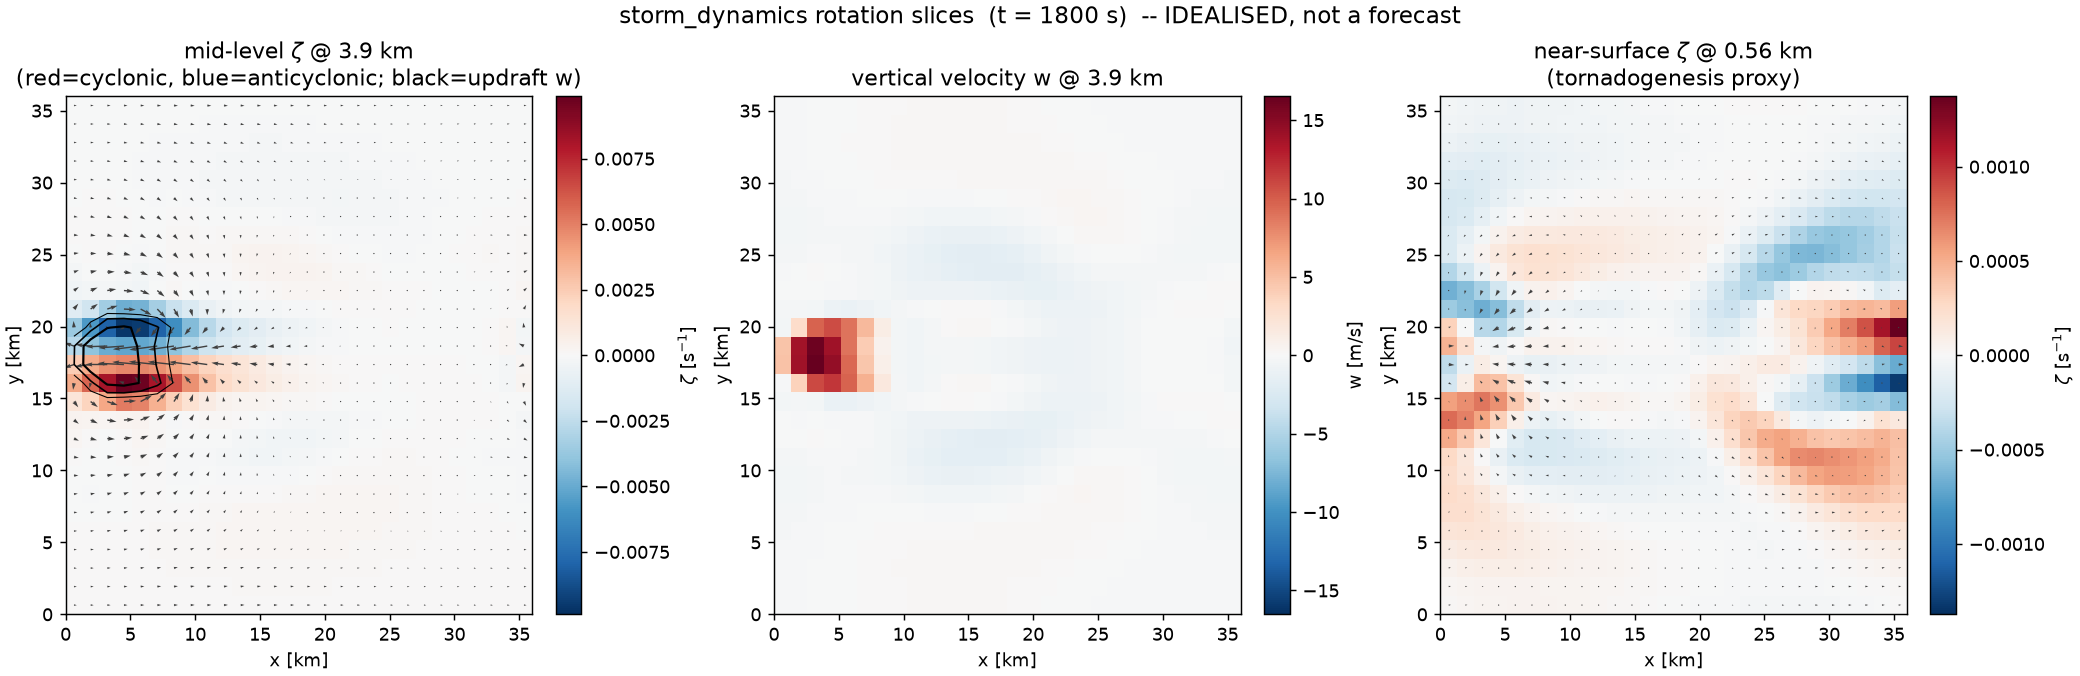
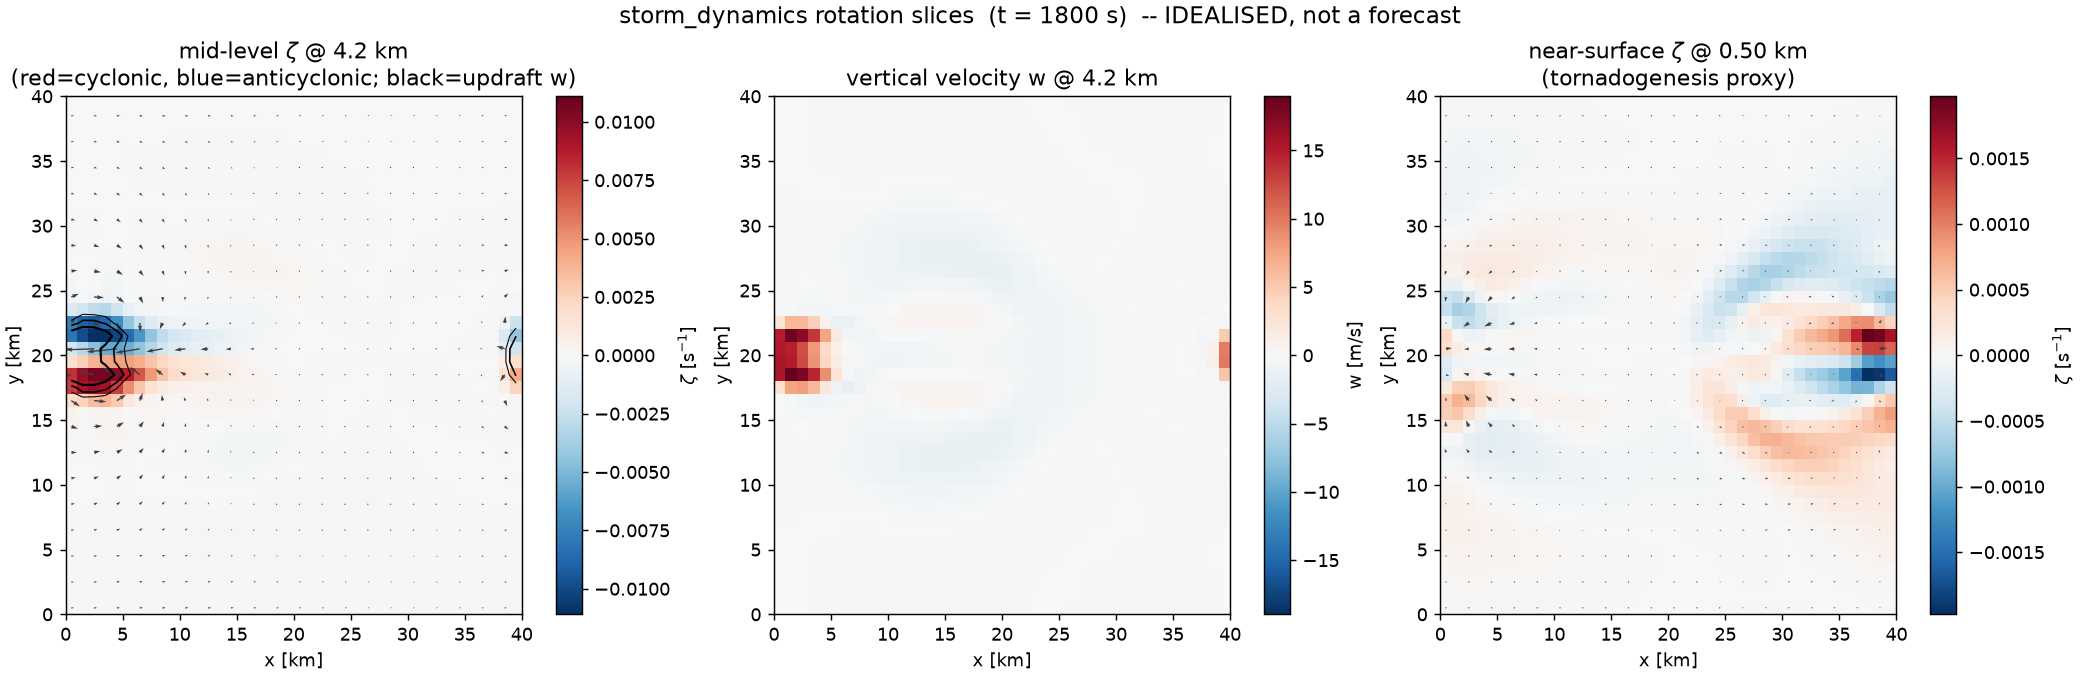
storm_dynamics: animation + CSV output, finer-grid GPU figures, README cookbook
- Animated GIF of the evolving mid-level / near-surface vertical vorticity
  (plotting.animate_rotation, Pillow -- no ffmpeg) + a history-CSV writer;
  example flags --animate/--fps/--csv, frame capture via run(capture_frames=True).
- README: command-line cookbook (grid, --device gpu, --plots, --animate, --csv,
  --kernel-nucleation) with an options table and an M2-vs-M3 milestone note.
- Refresh the featured M1 figures with a finer-grid GPU run (40x40x48, dx=1 km):
  stronger rotation (mesocyclone ~1.2e-2 1/s, updraft helicity ~435 m^2/s^2) and
  the animated evolution GIF.

diff --git a/src/storm_dynamics/plotting.py b/src/storm_dynamics/plotting.py
@@ -180,6 +180,68 @@ def plot_all(sim, outdir, tag="") -> dict:
     }
 
 
+def animate_rotation(sim, outdir, tag="", fps=8) -> str:
+    """Animate the evolving mid-level and near-surface vertical vorticity as a GIF.
+
+    Requires the run to have captured frames (``sim.run(capture_frames=True)``).
+    Uses matplotlib + Pillow (no ffmpeg needed).  Returns the GIF path.
+    """
+    import matplotlib.animation as manim
+    frames = getattr(sim, "frames", None)
+    if not frames:
+        raise ValueError("no frames captured; run with capture_frames=True")
+    os.makedirs(outdir, exist_ok=True)
+    g = sim.grid
+    Lx = g.Lx / 1000.0; Ly = g.Ly / 1000.0
+    zmax = max(1e-6, max(float(np.abs(f["zeta_mid"]).max()) for f in frames))
+    nzmax = max(1e-6, max(float(np.abs(f["zeta_near"]).max()) for f in frames))
+    ext = [0, Lx, 0, Ly]
+
+    fig, (a0, a1) = plt.subplots(1, 2, figsize=(11, 5.2), constrained_layout=True)
+    im0 = a0.imshow(frames[0]["zeta_mid"].T, origin="lower", extent=ext, cmap="RdBu_r",
+                    vmin=-zmax, vmax=zmax, aspect="auto")
+    im1 = a1.imshow(frames[0]["zeta_near"].T, origin="lower", extent=ext, cmap="RdBu_r",
+                    vmin=-nzmax, vmax=nzmax, aspect="auto")
+    fig.colorbar(im0, ax=a0, label=r"$\zeta$ [s$^{-1}$]")
+    fig.colorbar(im1, ax=a1, label=r"$\zeta$ [s$^{-1}$]")
+    a0.set_title("mid-level $\\zeta$ (~4 km)\ncyclonic=red, anticyclonic=blue")
+    a1.set_title("near-surface $\\zeta$ (~0.5 km)\ntornadogenesis proxy")
+    for ax in (a0, a1):
+        ax.set_xlabel("x [km]"); ax.set_ylabel("y [km]")
+    sup = fig.suptitle("storm_dynamics rotation  t = %.0f s  -- IDEALISED, not a forecast"
+                       % frames[0]["t"], fontsize=12)
+
+    def update(i):
+        f = frames[i]
+        im0.set_data(f["zeta_mid"].T)
+        im1.set_data(f["zeta_near"].T)
+        sup.set_text("storm_dynamics rotation  t = %.0f s  -- IDEALISED, not a forecast" % f["t"])
+        return im0, im1, sup
+
+    anim = manim.FuncAnimation(fig, update, frames=len(frames), blit=False)
+    path = os.path.join(outdir, "rotation_evolution%s.gif" % (("_" + tag) if tag else ""))
+    anim.save(path, writer=manim.PillowWriter(fps=fps))
+    plt.close(fig)
+    return path
+
+
+def write_history_csv(sim, outdir, tag="") -> str:
+    """Write the recorded rotation/conservation time series to a CSV.  Returns path."""
+    import csv
+    os.makedirs(outdir, exist_ok=True)
+    path = os.path.join(outdir, "history%s.csv" % (("_" + tag) if tag else ""))
+    rows = sim.history
+    if not rows:
+        return path
+    cols = list(rows[0].keys())
+    with open(path, "w", newline="", encoding="utf-8") as fh:
+        w = csv.DictWriter(fh, fieldnames=cols)
+        w.writeheader()
+        w.writerows(rows)
+    return path
+
+
 __all__ = [
     "plot_rotation_slices", "plot_hodograph", "plot_rotation_timeseries", "plot_all",
+    "animate_rotation", "write_history_csv",
 ]

diff --git a/src/storm_dynamics/core.py b/src/storm_dynamics/core.py
@@ -252,9 +252,14 @@ class StormSimulation:
         st.t = self.t + dt
 
     # ---- main loop ----
-    def run(self, progress=None, record_interval=None) -> dict:
+    def run(self, progress=None, record_interval=None, capture_frames=False) -> dict:
+        """Run the storm.  ``capture_frames`` stores lightweight 2-D vorticity /
+        vertical-velocity slices at each record interval into ``self.frames`` for
+        animation (see :func:`storm_dynamics.plotting.animate_rotation`)."""
         cfg = self.cfg
         self._Km = None
+        self._capture_frames = bool(capture_frames)
+        self.frames = []
         initial = diag.initial_budgets(self.state, self.rho_ref)
         duration = cfg.time.duration
         interval = record_interval or max(1, cfg.output.interval_steps)
@@ -274,6 +279,23 @@ class StormSimulation:
                 progress(self.t, duration, self.step)
         return self._finalise(initial)
 
+    def _capture_frame(self) -> None:
+        """Append a 2-D snapshot (mid-level ζ, w, near-surface ζ) for animation."""
+        g = self.grid
+        to_cpu = g.backend.to_cpu
+        _, _, zeta = rot.vorticity_3d(self.state, g)
+        _, _, wc = rot._centered_velocity(self.state, g)
+        z = to_cpu(g.zc)
+        import numpy as _np
+        kmid = int(_np.argmin(_np.abs(z - 4000.0)))
+        knear = int(_np.argmin(_np.abs(z - 500.0)))
+        self.frames.append({
+            "t": self.t,
+            "zeta_mid": to_cpu(zeta[:, :, kmid]),
+            "w_mid": to_cpu(wc[:, :, kmid]),
+            "zeta_near": to_cpu(zeta[:, :, knear]),
+        })
+
     def _record(self, initial: dict) -> None:
         st = self.state
         bud = diag.conservation_budgets(st, initial, self.rho_ref)
@@ -286,6 +308,8 @@ class StormSimulation:
                                       "near_surface_zeta_max", "updraft_helicity_max",
                                       "w_max", "w_min")}}
         self.history.append(row)
+        if getattr(self, "_capture_frames", False):
+            self._capture_frame()
 
     def _finalise(self, initial: dict) -> dict:
         cfg = self.cfg

diff --git a/examples/supercell_tornadogenesis.py b/examples/supercell_tornadogenesis.py
@@ -59,6 +59,11 @@ def main(argv=None) -> int:
                         "else CPU, gpu fails loudly if unavailable")
     p.add_argument("--plots", action="store_true",
                    help="write rotation figures (hodograph, slices, time series) as PNGs")
+    p.add_argument("--animate", action="store_true",
+                   help="write an animated GIF of the evolving vertical vorticity")
+    p.add_argument("--csv", action="store_true",
+                   help="write the rotation/conservation time series to history.csv")
+    p.add_argument("--fps", type=int, default=8, help="animation frames per second")
     p.add_argument("--outdir", default=None,
                    help="output directory for figures (default outputs/storm_<scenario>)")
     args = p.parse_args(argv)
@@ -110,7 +115,7 @@ def main(argv=None) -> int:
     def progress(t, dur, step):
         print("  t=%6.0f s / %.0f  (step %d)" % (t, dur, step), end="\r")
 
-    report = sim.run(progress=progress)
+    report = sim.run(progress=progress, capture_frames=args.animate)
     print(" " * 72, end="\r")
 
     rp = report["rotation"]
@@ -136,13 +141,18 @@ def main(argv=None) -> int:
     for lim in report["limitations"]:
         print("NOTE:", lim)
 
-    if args.plots:
+    if args.plots or args.animate or args.csv:
         from storm_dynamics import plotting as splt
         outdir = args.outdir or ("outputs/storm_%s" % args.scenario)
-        paths = splt.plot_all(sim, outdir, tag=args.scenario)
         print("-" * 72)
-        for name, path in paths.items():
-            print("figure %-11s -> %s" % (name, path))
+        if args.plots:
+            for name, path in splt.plot_all(sim, outdir, tag=args.scenario).items():
+                print("figure %-11s -> %s" % (name, path))
+        if args.csv:
+            print("history     -> %s" % splt.write_history_csv(sim, outdir, tag=args.scenario))
+        if args.animate:
+            print("animation   -> %s"
+                  % splt.animate_rotation(sim, outdir, tag=args.scenario, fps=args.fps))
     return 0
 
 

diff --git a/README.md b/README.md
@@ -43,8 +43,15 @@ classical Klemp–Wilhelmson / Weisman–Klemp result.
 *Left: mid-level vertical vorticity ζ with the perturbation wind (arrows) and the
 updraft (black contours) — a near-symmetric **cyclonic (red) / anticyclonic
 (blue) couplet** straddling the updraft is the split-supercell mesocyclone.
-Centre: vertical velocity. Right: near-surface ζ. (28×28×40, Δx≈1.3 km, 30 min;
-w_max ≈ 25 m/s, mesocyclone ≈ 1×10⁻² s⁻¹, updraft helicity ≈ 280 m²/s².)*
+Centre: vertical velocity. Right: near-surface ζ. (40×40×48, Δx = 1 km, on GPU,
+30 min; w_max ≈ 25 m/s, mesocyclone ≈ 1.2×10⁻² s⁻¹, updraft helicity ≈ 435 m²/s²
+— note the stronger rotation at finer resolution.)*
+
+![Animated evolution of mid-level and near-surface vertical vorticity over 30 minutes](docs/media/storm/rotation_evolution_supercell.gif)
+
+*The same finer-grid GPU run, animated (`--animate`): mid-level ζ (left) and
+near-surface ζ (right) evolving over 30 minutes as the mesocyclone organises and
+the storm splits.*
 
 ![Time series of near-surface vorticity, mid-level mesocyclone, updraft helicity and vertical velocity](docs/media/storm/rotation_timeseries_supercell.png)
 
@@ -74,9 +81,67 @@ that feeds the low-level vortex.*
 Reproduce with:
 
 ```bash
+# M1 — rotating supercell (storm splitting), CPU (default):
 python examples/supercell_tornadogenesis.py --scenario supercell      --plots
+
+# M2 — tornadogenesis (curved hodograph + surface drag + evaporative cold pool), CPU:
 python examples/supercell_tornadogenesis.py --scenario tornadogenesis --plots
+
+# the same M2 run on GPU (NVIDIA + CuPy) -- identical physics/output, just faster
+# at larger grids; --device gpu fails loudly (not silently) if no working GPU:
+python examples/supercell_tornadogenesis.py --scenario tornadogenesis --plots --device gpu
+
+# --device auto: GPU when available, else CPU, with the fallback reason logged:
+python examples/supercell_tornadogenesis.py --scenario supercell --device auto
+
+# couple the validated nucleation kernel (eq39 pathway) as the microphysics embryo
+# source instead of CCN/IN activation (builds a lookup table once, then cached):
+python examples/supercell_tornadogenesis.py --scenario tornadogenesis \
+    --kernel-nucleation --plots --device gpu
+
+# a bigger tornadogenesis grid (finer near-surface resolution, longer run) -- GPU
+# pays off once the grid is large enough that the pressure solve uses CG:
+python examples/supercell_tornadogenesis.py --scenario tornadogenesis \
+    --nx 48 --ny 48 --nz 56 --duration 3600 --plots --device gpu
+
+# finer grid on GPU with graphs + an animated GIF + a CSV time series
+# (the "finer grid, GPU, graphs, animation" recipe end to end):
+python examples/supercell_tornadogenesis.py --scenario supercell \
+    --nx 40 --ny 40 --nz 48 --Lx 40000 --Ly 40000 --Lz 16000 \
+    --duration 1800 --device gpu --plots --animate --csv --fps 10 \
+    --outdir outputs/storm_m1_fine_gpu
+
+# quick smoke test (tiny grid, short duration) to sanity-check a change fast:
+python examples/supercell_tornadogenesis.py --scenario supercell \
+    --nx 8 --ny 8 --nz 10 --duration 30 --device auto
 ```
+
+| Option | Default | What it does |
+|---|---|---|
+| `--scenario {supercell,tornadogenesis}` | `supercell` | M1 (unidirectional shear) or M2 (curved hodograph + drag) |
+| `--nx --ny --nz` | `32 32 40` | grid resolution (finer = higher fidelity, heavier) |
+| `--Lx --Ly --Lz` | `40000 40000 16000` | domain size [m] (`dx = Lx/nx`) |
+| `--duration` / `--dt-max` | `2400` / `3.0` | integration time / max time step [s] |
+| `--device {cpu,gpu,auto}` | `cpu` | compute backend (`gpu` needs NVIDIA + CuPy; `auto` falls back to CPU) |
+| `--plots` | off | write hodograph, rotation-slice and time-series PNGs |
+| `--animate` / `--fps` | off / `8` | write an animated GIF of the evolving vorticity |
+| `--csv` | off | write the rotation/conservation time series to `history.csv` |
+| `--kernel-nucleation` | off | feed the validated nucleation kernel `J` as the microphysics embryo source |
+| `--outdir` | `outputs/storm_<scenario>` | where figures / GIF / CSV are written |
+
+> **Milestones — are we on M2 or M3?** M1 (rotating supercell: splitting +
+> mid-level mesocyclone) and **M2** (sustained low-level rotation) are delivered
+> and verified. A globally finer grid (above) improves fidelity and is fully
+> supported, but it is **not M3**: M3 means *nested refinement / AMR* to resolve
+> the ~10–100 m tornado vortex, which is future work — the core is left prepared
+> for it, not yet implemented.
+
+`--device cpu` (default) preserves the original CPU-only behaviour with no GPU
+probing at all; CPU/GPU parity is regression-tested
+(`test_storm_gpu_matches_cpu`, skipped automatically when no GPU is present).
+See the [storm dynamics guide](docs/storm_dynamics_guide.md)'s "Compute backend
+(CPU / GPU)" section for the full `--device`/config semantics and when GPU is
+actually worth it at these demonstration grid sizes.
 
 ---
 

diff --git a/CHANGELOG.md b/CHANGELOG.md
@@ -30,7 +30,10 @@ moved byte-identically; SHA-256 checksums preserved).
   `--plots` writes the rotation figures).
 - `storm_dynamics/plotting.py` — rotation figures: mid-level / near-surface ζ
   slices (the cyclonic/anticyclonic split couplet), vertical velocity, the
-  environmental hodograph with SRH/shear, and the rotation time series.
+  environmental hodograph with SRH/shear, and the rotation time series; plus an
+  **animated GIF** of the evolving vorticity (`animate_rotation`, Pillow — no
+  ffmpeg) and a history-CSV writer. Example flags `--animate` / `--fps` / `--csv`
+  (frame capture via `StormSimulation.run(capture_frames=True)`).
 - `configs/storm_supercell.yaml`, `configs/storm_tornadogenesis.yaml` (declarative).
 - `docs/storm_dynamics_guide.md` (model, what it can/cannot claim, resolution
   limits, references), `docs/MANUAL_storm_dynamics.html` (styled self-contained

diff --git a/src/storm_dynamics/handoff.md b/src/storm_dynamics/handoff.md
@@ -141,7 +141,9 @@ had been red purely from the EOL artifact above; now green). storm_dynamics adds
 ## Done since the first handoff
 
 - **Rotation figures** (`plotting.py` + example `--plots`): mid-level / near-surface
-  ζ slices (the split couplet), w, hodograph+SRH, rotation time series.
+  ζ slices (the split couplet), w, hodograph+SRH, rotation time series. Plus an
+  **animated GIF** of the evolving vorticity (`--animate`, Pillow — no ffmpeg;
+  frame capture via `run(capture_frames=True)`) and a **history CSV** (`--csv`).
 - **Kernel-nucleation coupling** (`build_storm_config(couple_nucleation=True)` /
   example `--kernel-nucleation`): the validated 2nd-order nucleation rate J is
   evaluated on the post-transport state each step and fed to the microphysics as
